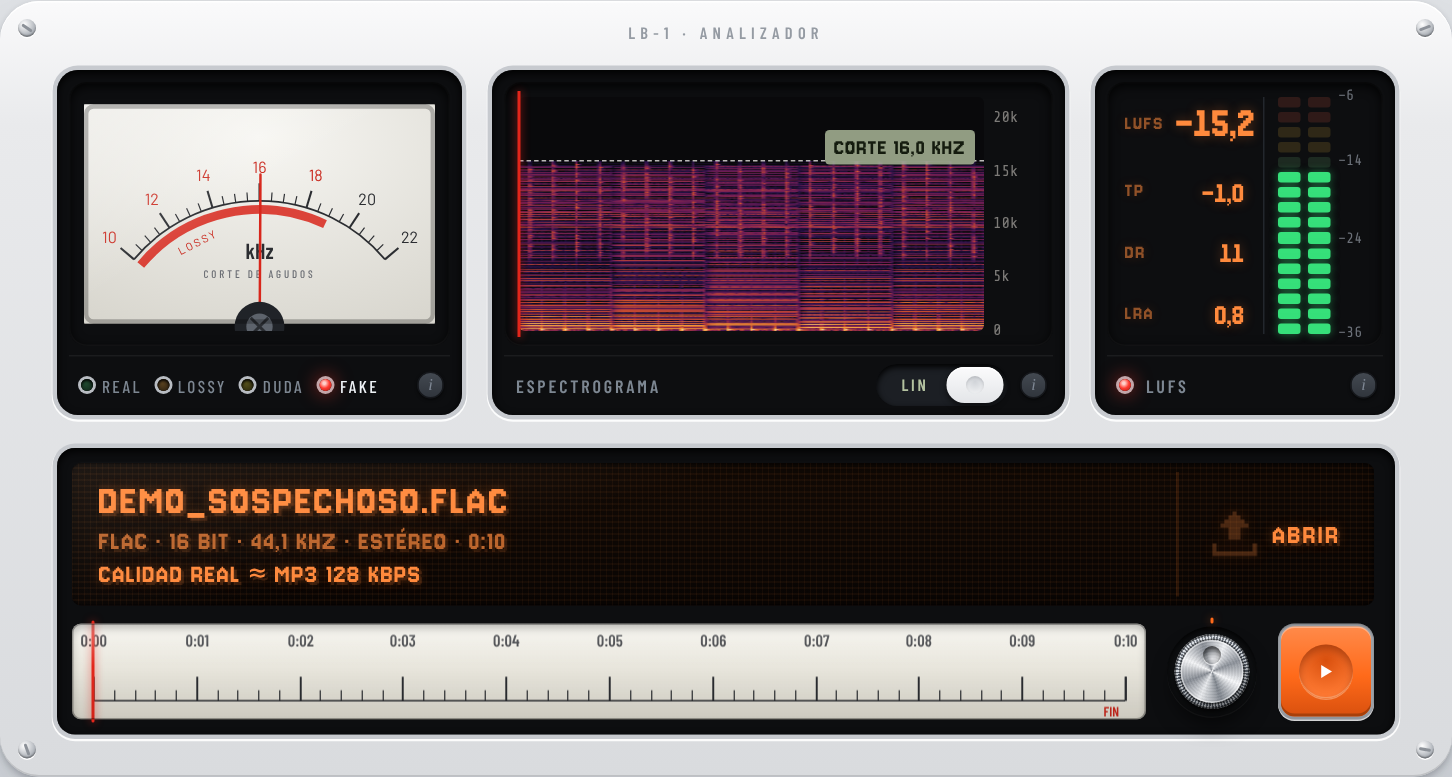
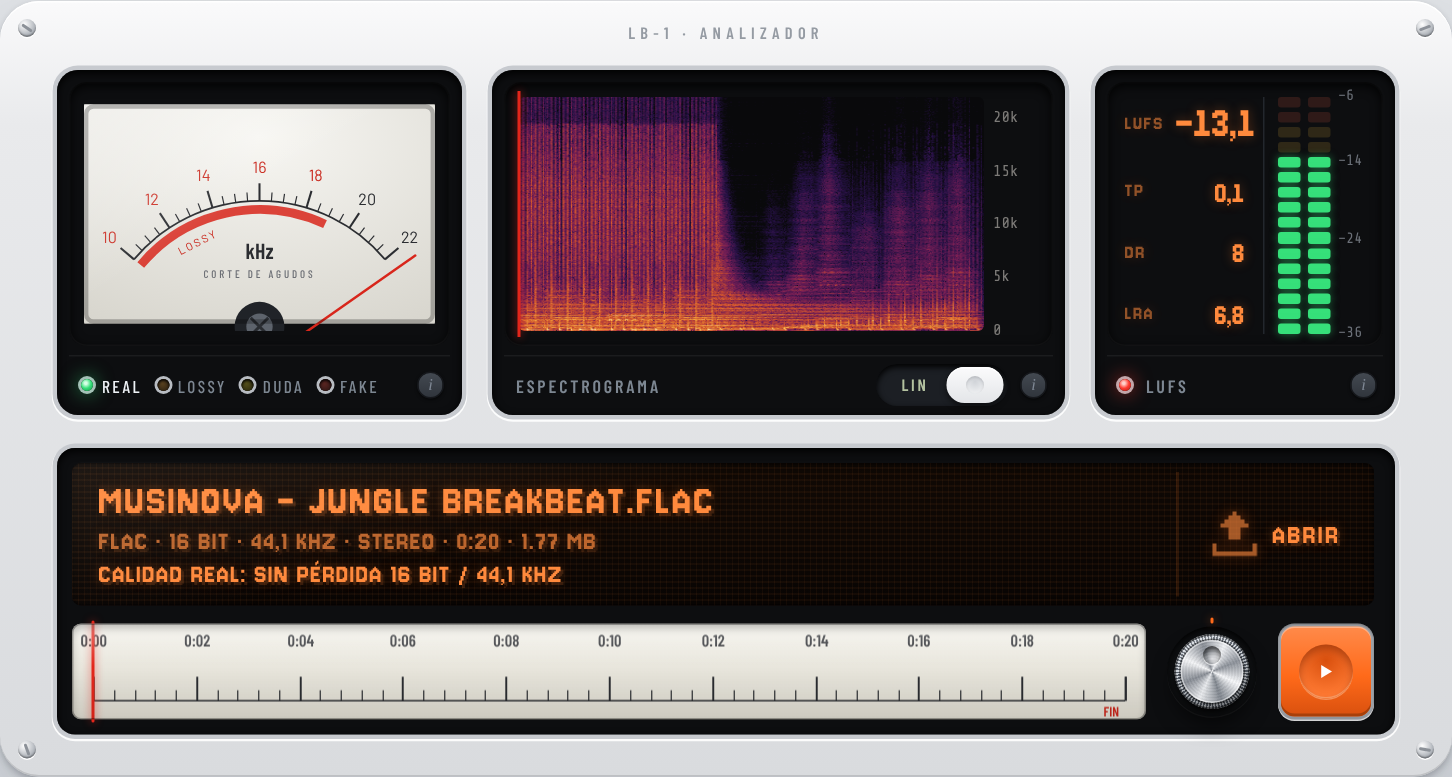
docs: credit preview track and refresh screenshots
Claude-Session: https://claude.ai/code/session_01Tb8Z1xYg3EBCxtqkoAhzs3

diff --git a/README.md b/README.md
@@ -45,10 +45,11 @@ No frameworks and no bundler; it ships as one HTML file. Every container format 
 ```
 src/
 ├── index.html            markup + script order
+├── assets/               preview track (inlined into dist at build time)
 ├── css/                  design tokens (dark/light) and faceplate styles
 └── js/
     ├── core.js           helpers, format matrix, help texts, app state
-    ├── audio.js          header sniffing, demo signal, processing chain
+    ├── audio.js          header sniffing, fallback demo signal, processing chain
     ├── measure.js        BS.1770 loudness, true peak, DR, fake detection
     ├── meta.js           tag/cover read and write
     ├── presets.js        device preset database
@@ -68,7 +69,7 @@ npm run build      # inline everything into dist/index.html
 npm test           # build, then run the end-to-end encoder checks
 ```
 
-The end-to-end test loads the app in headless Chromium, checks the analyzer verdict on the built-in demo, and encodes it to every format the browser supports. If `ffprobe` is installed, each output is then decoded with FFmpeg and its codec, sample rate and channel count are verified.
+The end-to-end test loads the app in headless Chromium, checks the analysis and tag reading on the preview track, and encodes it to every format the browser supports. If `ffprobe` is installed, each output is then decoded with FFmpeg and its codec, sample rate and channel count are verified.
 
 ## Browser support
 
@@ -76,4 +77,6 @@ The analyzer and the lossless encoders run in any modern browser. AAC and Opus d
 
 ## License
 
-[MIT](LICENSE)
+Code: [MIT](LICENSE).
+
+Preview track: "Jungle Breakbeat" by Musinova, from [Pixabay](https://pixabay.com/music/) under the Pixabay Content License (20-second excerpt).
